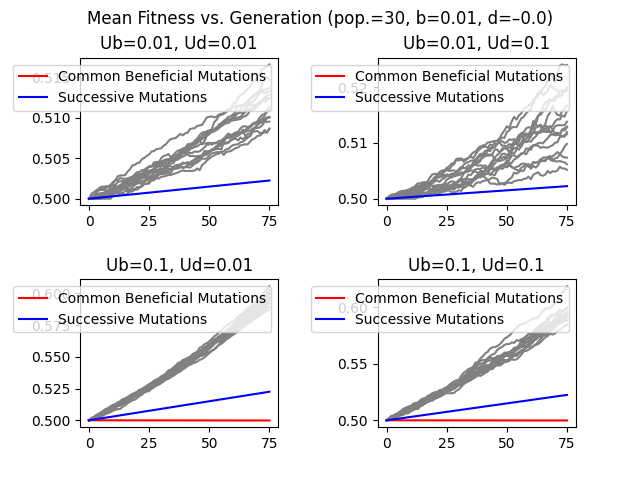
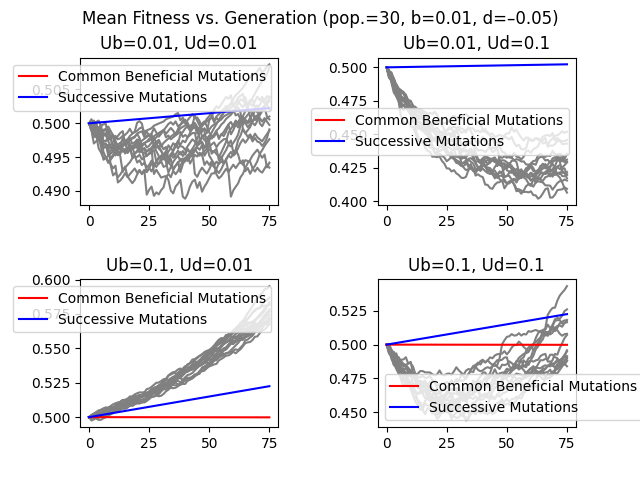
progress bar

diff --git a/simple-fitness-tracking.py b/simple-fitness-tracking.py
@@ -3,7 +3,7 @@ from math import exp, sqrt
 import time
 from matplotlib import pyplot as plt
 import numpy as np
-from pprint import pprint
+from alive_progress import alive_bar
 
 def next_gen(population, fitnesses, Ub, b, Ud, d):
     reproduced = {}
@@ -21,12 +21,12 @@ def next_gen(population, fitnesses, Ub, b, Ud, d):
         try:
             sampled[fitness + b] += beneficial_mutations
         except KeyError as ke:
-            print(ke)
+            # print(ke)
             sampled[fitness + b] = beneficial_mutations
         try:
             sampled[fitness + d] += detrimental_mutations
         except KeyError as ke:
-            print(ke)
+            # print(ke)
             sampled[fitness + d] = detrimental_mutations
         sampled[fitness] = max(0, reproduced[fitness] - (beneficial_mutations + detrimental_mutations))
         # pprint(sampled)
@@ -57,16 +57,17 @@ def simulate(population, generations, starting_fitness, b, d, Ubs, Uds, runs, pl
                 fitnesses = [{starting_fitness: population}]
                 for _ in range(generations):
                     next_gen(population, fitnesses, Ub, b, Ud, d)
+                    yield
                 mean_fitnesses = []
                 for generation in fitnesses:
                     mean_fitnesses.append(sum([fitness * size / population for fitness, size in generation.items()]))
                 if plot:
                     axs[i][j].plot(range(len(fitnesses)), mean_fitnesses, color='gray')
                     axs[i][j].set_title(f'Ub={Ub}, Ud={Ud}')
+
             x = np.linspace(0, generations, 1000)
             y1 = [population * Ub * b**2 * i + starting_fitness for i in x]
             y2 = [(b**2 * ((2 * np.log(population * b) - np.log(b / Ub)) / (np.log(b / Ub))**2)) * i + starting_fitness for i in x]
-
             axs[i][j].plot(x, y2, label='Common Beneficial Mutations', color='red')
             axs[i][j].plot(x, y1, label='Successive Mutations', color='blue')
             axs[i][j].legend()
@@ -81,15 +82,18 @@ if __name__=='__main__':
 
     start_time = time.time()
 
-    population = 30
+    population = 5
     generations = 75
     starting_fitness = 0.5
     b = 0.01
-    d = -0.0 # make d = 0 when comparing against desai/fisher eqns for mean fitness growth
+    d = -0.05 # make d = 0 when comparing against desai/fisher eqns for mean fitness growth
     Ubs = [round(i * 1000)/1000 for i in np.linspace(10**-2, 10**-1, 2)]
     Uds = [round(i*100)/100 for i in np.linspace(10**-2, 10**-1, 2)]
 
-    runs = 15
-    simulate(population, generations, starting_fitness, b, d, Ubs, Uds, runs, plot=True)
+    runs = 10
+    with alive_bar(runs * len(Ubs) * len(Uds) * generations) as bar:
+        for i in simulate(population, generations, starting_fitness, b, d, Ubs, Uds, runs, plot=True):
+            # print(i)
+            bar()
 
     print("--- %s seconds ---" % (time.time() - start_time))
